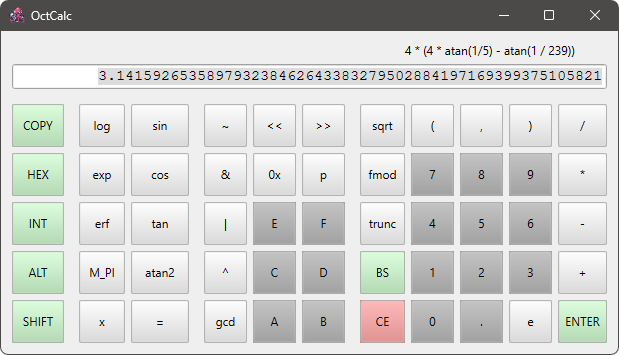
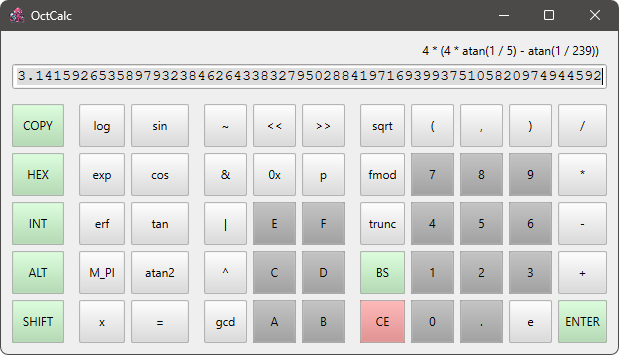
no message

Changed region(s): [[0.2763, 0.1859, 0.9822, 0.2479], [0.0307, 0.1859, 0.2456, 0.2479], [0.6446, 0.1239, 0.9822, 0.1549]]

diff --git a/src/octgui.cpp b/src/octgui.cpp
@@ -9,6 +9,7 @@
 #include <QLineEdit>
 #include <QToolButton>
 #include <QColor>
+#include <QFontDatabase>
 
 #include "octcore.hpp"
 
@@ -88,8 +89,12 @@ OctCalc::OctCalc(QWidget *parent, QApplication *app_) : QWidget(parent), app(app
     display->setPalette(pal);
   }
 
+#if defined(_WIN32)
   QFont font("Monospace");
   font.setStyleHint(QFont::TypeWriter);
+#else
+  QFont font = QFontDatabase::systemFont(QFontDatabase::FixedFont);
+#endif
   font.setPointSize(display->font().pointSize() + 2);
   display->setFont(font);
 
@@ -256,7 +261,7 @@ void OctCalc::processButtonPress(const string &s) {
     showingResult = false;
     selectAll = true;
   } else if (s == "WEB") {
-    QDesktopServices::openUrl(QUrl("https://github.com/shibatch", QUrl::TolerantMode));
+    QDesktopServices::openUrl(QUrl("https://github.com/shibatch/octcalc", QUrl::TolerantMode));
   } else if (s == "BS") {
     if (selectionStart == -1) {
       if (cursorPos > 0) {
@@ -448,18 +453,19 @@ bool OctCalc::eventFilter(QObject *obj, QEvent *event) {
 #endif
   } else if (obj == this && event->type() == QEvent::Show) {
     int w = display->size().width();
-#if defined(_WIN32)
-    w -= 32;
-#elif 0
     w -= display->textMargins().left() + display->textMargins().right();
     w -= display->contentsMargins().left() + display->contentsMargins().right();
     w -= 8; // Hard coded in qt
-#else
-    w -= 28;
-#endif
+
+#if 0
     int cw = display->fontMetrics().boundingRect('0').width() +
       display->fontMetrics().leftBearing('0') + display->fontMetrics().rightBearing('0');
     displayWidth = w / cw;
+#else
+    string z = "";
+    while(display->fontMetrics().boundingRect(z.c_str()).width() < w) z += "0";
+    displayWidth = z.size() - 1;
+#endif
     displayBuffer.resize(displayWidth+10);
 
     display->setMaxLength(displayWidth);
